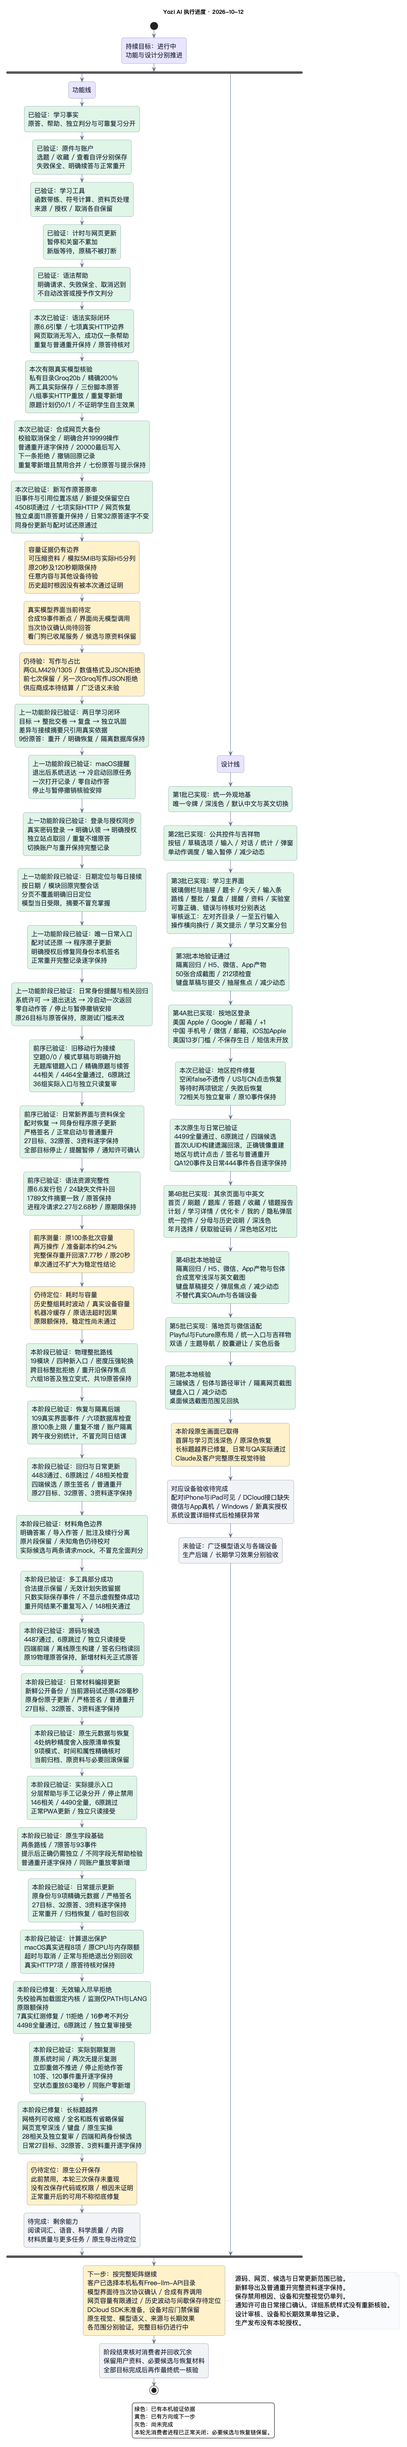
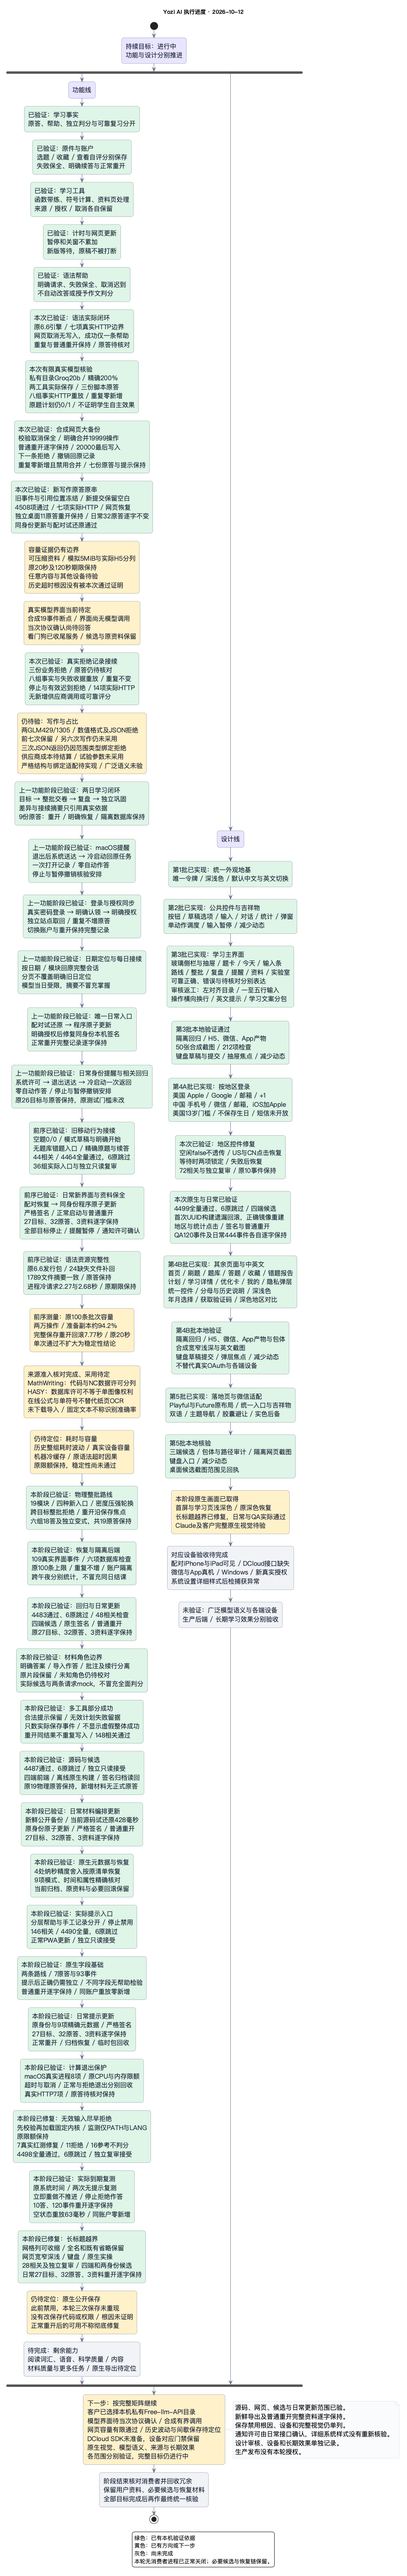
docs(learning): record rejected writing probes and source gates

Changed region(s): [[0.0311, 0.0, 0.8388, 0.9987], [0.4039, 0.2809, 0.7456, 0.6554], [0.8699, 0.9363, 0.932, 0.9675]]

diff --git a/docs/13-DEVELOPMENT-PLAN.md b/docs/13-DEVELOPMENT-PLAN.md
@@ -50,6 +50,12 @@
 
 另一次Groq写作请求因供应商JSON拒绝失败，原因未证实，未采用评分，费用仍待结算；真实模型界面当次协议确认仍待客户回答。SDK未准备、Windows及手机、真实语义与费用、公开来源、生产和长期效果继续按完整矩阵推进，目标仍进行中。依据见[本阶段变更](12-CHANGELOG.md#2026-10-12写作原答原串与旧记录兼容)、[实际恢复画面](../tmp/stage1-mobile-20261011/notice-original-ui-restored.png)与[现有回执](../tmp/stage1-mobile-20261011/verification.md)。
 
+### 模型写作诊断与拒绝记录接续
+
+同一通知做五项隔离探针：原1000/default与1000/low均JSON拒绝，2000/low及两次引用表述澄清取得JSON后仍因错误位置、证据类型、量表编号被拒绝。没有评分采用，试验参数和提示未进入源码或日常程序，默认JSON失败的唯一根因未证实。三份真实拒绝记录的八类数组、失败收据、重复、停止/迟到、账号隔离与鉴权经14项零模型实际HTTP保持，原答仍pending，无可靠复习。
+
+下一实施项是已识别型号的严格输出结构及宿主已知attempt/rubric绑定，引用仍由原规则验真、未知或错误仍拒绝；预算和推理策略必须进入实际预留/请求归属，其他型号、流式与工具权限不能被静默改变。实现、隔离证明与实际界面分别验收，不把本次探针当作修复。五次供应商费用均待结算，平台0不代表供应商0。手写来源准入见下方候选表，未导入数据；协议、SDK、其他设备和完整矩阵继续保留。
+
 ### 前序大备份恢复与网页容量边界继续有效
 
 记录接近上限时，用户需要能安全取消、保存、重开和撤销。此次用自写的可压缩大备份走完实际网页入口：校验中取消仍保留原空记录，明确合并后普通重开完整导出逐字一致；最后一项手动完成可保存，下一项因原上限被拒绝，已有历史没有自动删除。明确撤销后回到写入前记录，再导入同一备份显示零新增且禁用合并；最后普通重开仍一致。
@@ -138,6 +144,17 @@
 | 考公               | [考公AI导师](https://github.com/KeWang0622/kaogong-skill)                                                                                                                          | 行测/申论题型和出处分工；政策/格式必须核对当年官方信息，模拟题不能称真题，评分语义仍待验                                 | 借鉴任务分工，复用已有资料/原答/辅助评分，不照搬题库                 |
 | 雅思/托福          | [English Exam Coach](https://github.com/OleksiiDotsenko/english-exam-coach)                                                                                                        | 任务类型、原答改写、独立复测与进度；明确非官方估分，考试格式按年度更新，文字转录不证明听说能力                           | 先英语阅读/词汇和有来源反馈，再作文/听说；考试格式实施前核对官方版本 |
 | 跨方向复习         | [ts-fsrs](https://github.com/open-spaced-repetition/ts-fsrs)                                                                                                                       | 项目已有FSRS；调度规则不能代替可靠作答依据或长期效果证明                                                                 | 继续复用，不重复实现第二套调度                                       |
+
+### 手写评测候选的来源准入（2026-10-12）
+
+本轮只读核对两个已有候选，未下载、导入、安装或评测；它们尚未准入，也不能关闭纸页OCR、复杂含图题目与完整判分门禁。
+
+| 候选        | 数据与代码分开核对                                                                                                                                                                                                                                                           | 可覆盖的诊断与当前缺口                                                                                                                                                                                        |
+| ----------- | ---------------------------------------------------------------------------------------------------------------------------------------------------------------------------------------------------------------------------------------------------------------------------- | ------------------------------------------------------------------------------------------------------------------------------------------------------------------------------------------------------------- |
+| MathWriting | [官方说明](https://github.com/google-research/google-research/blob/master/mathwriting/README.md)标明代码Apache-2.0、数据上游许可；用途与用途待授权条件的符合性尚未确认，不能仅因本地或免费就按已准入使用                                                                  | [格式](https://github.com/google-research/google-research/blob/master/mathwriting/archive_readme.md)区分真实触屏笔迹与拼接符号的合成笔迹，以normalizedLabel为公式转录标注；渲染图不是纸页扫描，无题目答案权威 |
+| HASYv2      | [工具元数据](https://github.com/MartinThoma/HASY/blob/master/setup.cfg)声明MIT，许可全文证据仍待补；[作者论文](https://arxiv.org/html/1701.08380)将数据标为ODbL。[ODbL §2.4](https://opendatacommons.org/licenses/odbl/1-0/)不自动覆盖单张图像独立版权，图像权利尚未核验完整 | 浏览器书写后渲染的32×32单符号，symbol_id/latex标注，仅覆盖符号分类；不证明公式结构、纸页版面、图表含义或答案角色                                                                                              |
+
+若准入条件满足，复用既有Apple Vision图片入口与解析器回执校验；当前没有这两套样本的驱动或LaTeX指标适配。先固定版本/样本/许可/标注/渲染及切分规则，统计失败、空输出、超时和疑义，再比较规范转录；缩小子集不直接对比完整论文成绩。现有固定文本质量夹具中的含图歧义只是合同样例，不是真实OCR准确率证据。错误转录仍待校对，不自动成为可靠答案、学习事实或公共题源。
 
 ## A—E 批次
 

diff --git a/docs/12-CHANGELOG.md b/docs/12-CHANGELOG.md
@@ -1,5 +1,17 @@
 # 重要变更
 
+## 2026-10-12：免费模型写作拒绝诊断与手写来源准入
+
+在前轮Groq写作JSON拒绝之后，本轮固定同一原创通知/原答/型号，沿既有目录AST适配与单次预算做五项隔离探针，不读取.env或其他凭据、不自动重试或换供应商。原1000输出预算/default reasoning再次返回400/json_validate_failed，失败正文为空、usage和finish_reason缺失；仅改low reasoning且消息摘要相同仍拒绝。再将隔离保存配置改到原允许2000上限、按正常预算预留，取得真实200/stop/3523 tokens（921输出含615推理），但显式引用位置错误，未保存评分。
+
+仅澄清唯一原文时又收到真实JSON（2969 tokens），evidence却是单个字符串；再明确字符串数组，收到真实JSON（3378 tokens）且引用确在原答，却给出错误rubricId。三份业务输出均被原校验拒绝，原答pending、零assistance/可靠复习；不凭传输成功或供应商completed/received账升级为学习成功。两个1000预算失败和一个2000预算成功不足以证明唯一根因，未将任何试验参数或提示采用到源码/日常程序；更广模型质量仍待验。
+
+进一步用零模型调用的实际JWT/隔离Mongo验收三份真实拒绝记录：八类数组与失败收据完整重放、重复补传不变、停止后原答保持、另构造有效但迟到的评估明确按STOPPED拒绝、其他账户无原答及缺鉴权拒绝，14项通过。账单前态保留：本轮5次中2次started后failed、3次received，actualCost均null/costStatus=pending，平台spent=0不证明供应商免费。下一实施项为已知供应商的严格输出结构、宿主绑定的attempt/rubric与数组类型，仍须原引用/量表/权限校验和预算/请求归属，不采用自动修正、降级或重试绕过。
+
+只读ultra复核另明确MathWriting代码Apache-2.0与数据上游许可分开，用途按授权条件未确认；HASY代码元数据MIT、数据ODbL，许可全文及单图像权利仍待补。两个数据集分别覆盖在线公式笔迹和单符号渲染，均不替代真实纸页/图表语义/判分。未下载、安装、导入或评测，固定文本质量夹具不称OCR准确率。来源与最小既有适配条件并入[计划](13-DEVELOPMENT-PLAN.md#手写评测候选的来源准入2026-10-12)。[Groq参数](https://console.groq.com/docs/api-reference)与[严格输出支持](https://console.groq.com/docs/structured-outputs)本轮核对；供应商许可链接沿计划表。
+
+全部自有服务正常回收，数据库及临时仪表化后端删除，原镜像脚本逐字还原；保留脱敏诊断、合成原答及当前/回滚产物。当前日常原串版本ea0bc6e6及其资料不变；本次仅诊断、拒绝接续验收和来源判断。协议确认仍待客户回答、DCloud尚未准备，完整目标继续按矩阵推进。[机器/文字回执](../tmp/stage1-mobile-20261011/verification.md)。
+
 ## 2026-10-12：写作原答原串与旧记录兼容
 
 通知和引导写作曾在明确提交时裁剪首尾空白，可能使逐字引用位置发生变化。现新写作使用有版本的原串事件，旧提交保持冻结重放和同ID复用，不改旧原答、引用、题目或量表。未明确提交的新事件抛错，失败批次不落库；用户工具由宿主标记新提交，模型提交和额外参数仍拒绝，澄清不产生成功收据。

diff --git a/docs/08C-SCRIPTS-REFERENCE.md b/docs/08C-SCRIPTS-REFERENCE.md
@@ -4,6 +4,8 @@
 
 ## 当前候选与本机资源
 
+免费模型诊断本次沿 `verification.json.freeCatalogContinuation.writingDiagnostic`，五组原答/账与脱敏诊断保留在既有 `free-catalog-zhipu-20261012/groq-writing-{diagnostic,low,low-2000,unique-quote,array-quote}`，各一请求、无自动回退。临时后端已回收，镜像 `verify-learning-live.mjs` 已逐字还原；2000/low或提示澄清只属试验，当前 `backend-original-answer` 与日常版本未采用。三份拒绝记录的14项零模型HTTP重放/重复/停止另有回执，不能称模型评分通过。复用新的预算/推理策略或JSON schema前，需实现实际预留/配置与请求归属及未改变其他模式的校验。
+
 当前原答保护阶段沿 `verification.json.writingOriginalFix`：后端为 `backend-original-answer/`，旧 `backend/` 仅保留历史模型回执及旧重放拒绝证据，不用于新原答事件验收。四端输出、既有源码镜像及Rust缓存复用；最新日常归档仍为 `desktop-candidate.zip`，独立身份为 `native-field-qa.zip`，各自完整读回、试还原与实际重开通过。ZIP恢复高精度时间戳须应用对应回执的逐文件十进制纳秒清单；程序与资料配对，不能只验签名。日常最近成功回滚程序为原配对目录 `Yozi AI.original-answer.app.zip`，原学习资料导出仍沿同目录不可变基线。
 
 2026-10-12 地区控件修复复用同一构建目录与原生缓存，四端前端与两种原生身份实际核验通过；本机语法实际HTTP和网页回执沿 `verification.json` 的 `grammarHttpBoundaries`，控件修复、首次错误构建目录后的回滚和当前候选沿 `regionControlFix`。日常程序须从带原资料UUID适配的既有隔离镜像构建；仓库根构建即使签名通过，也不会因此接回原资料。当前归档在实际更新、公开完整导出及普通重开通过后才提升。

diff --git a/docs/14-MODEL-PRIVACY-COST.md b/docs/14-MODEL-PRIVACY-COST.md
@@ -1,5 +1,9 @@
 # 模型、隐私与费用合同
 
+## 实际返回与业务采用的区别（2026-10-12）
+
+本次五项合成Groq写作诊断中，两个请求started后供应商拒绝，三个收到合法JSON/真实usage而下游引用/类型/量表绑定拒绝。原答仍待核对，零评分采用和可靠复习；供应商received/completed只说明对应模型调用结果，不是学习工具写入成功。五账actualCost=null/costStatus=pending；已知三个usage不填补其他失败的用量，不把平台spent=0说成供应商零费用。试验中的2000预算通过正常模型配置与预留，未采用到当前源码，不暗中只改供应商上限或绕过预算。
+
 ## 地区登录与美国年龄确认（2026-10-11，第4A批）
 
 美国账户创建前仅临时计算出生年月，不写入数据库、本机存储、日志、验证码记录或普通备份；通过只存“已确认13岁以上”及确认时间，短期服务器票据一次消费。未通过清空全部身份草稿且零账户/个人记录写入；本机只保存不含生日/身份的24小时拦截标记，并保留运行会话内锁。中国区未成年人规则待客户决定。Apple/Google 仅采纳签名身份，不按相同邮箱合并账户；短信实际发送保持关闭，本轮真实短信、邮件、供应商授权、费用及生产写入均未执行。[完整合同与变量名](04-API-DOCUMENTATION.md#账户与登录)。下文 QQ 与旧 Tauri 验证是历史记录，QQ 当前已退役，不用于配置或开通。
